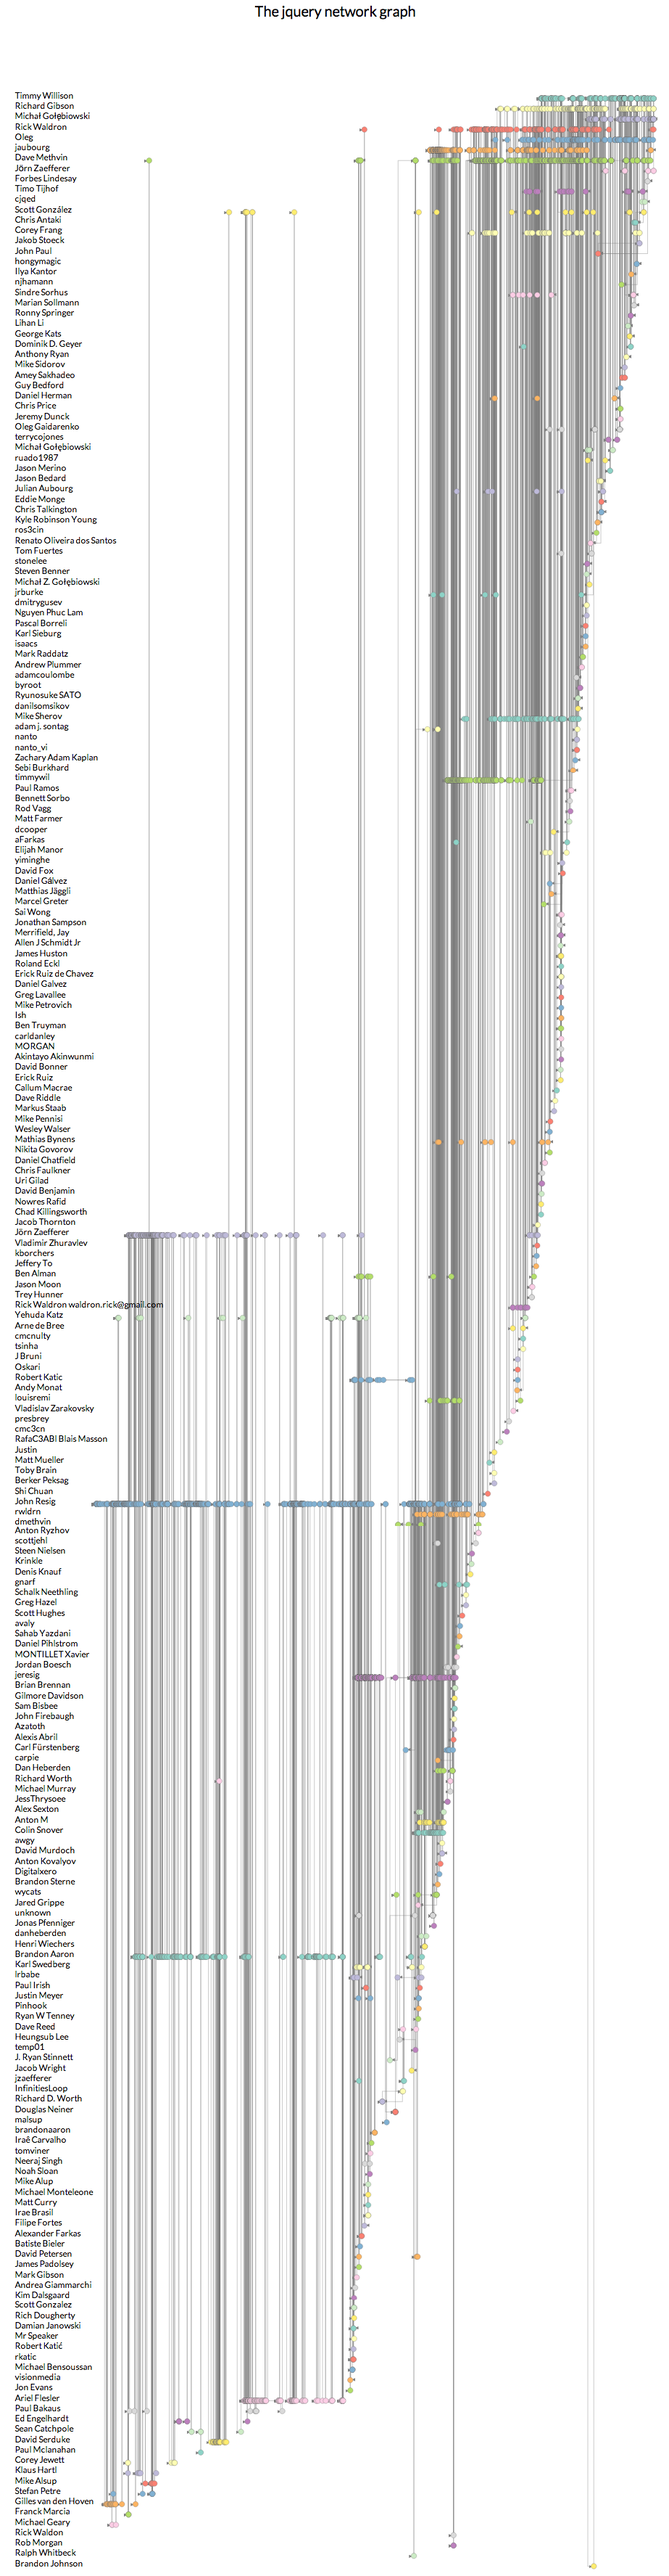
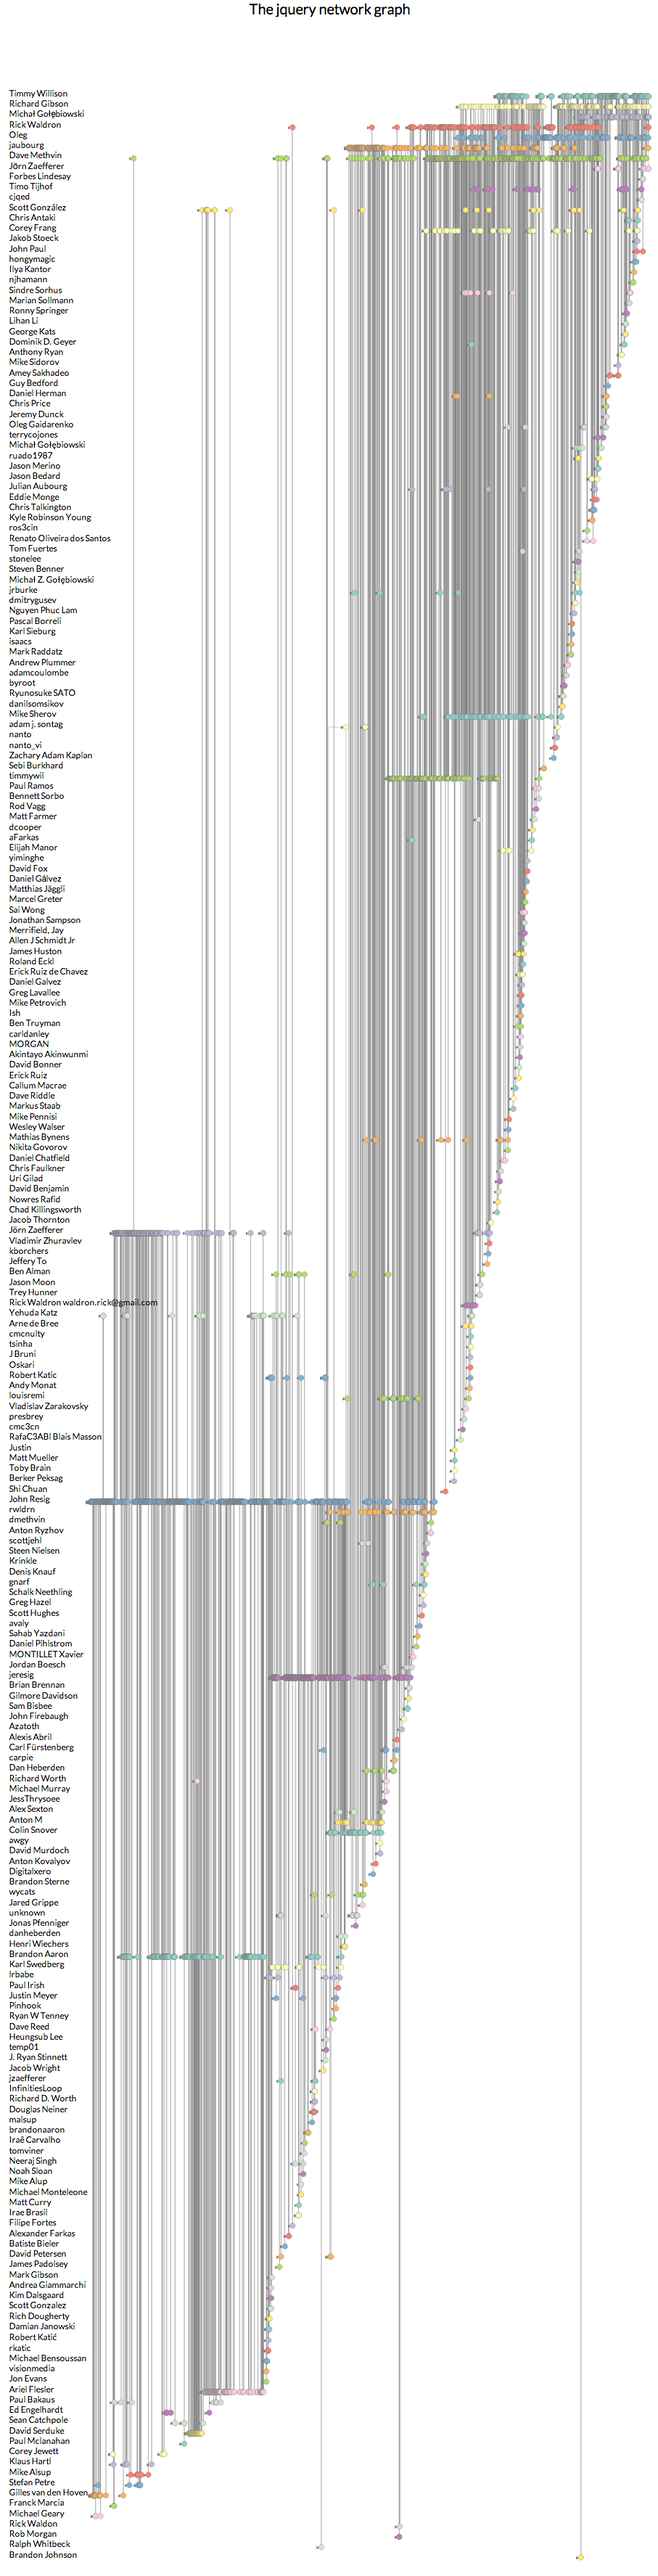
Correct backwards connections

diff --git a/js/problem_4.js b/js/problem_4.js
@@ -101,7 +101,7 @@ for (name in contributors) {
       }
       metadata = {
         author: commit.commit.author.name,
-        date: new Date(commit.commit.author.date),
+        date: new Date(commit.commit.committer.date),
         message: commit.commit.message,
         branch: branchName,
         sha: commit.sha,

diff --git a/js/simple_graph_answer.js b/js/simple_graph_answer.js
@@ -101,7 +101,7 @@ for (name in contributors) {
       }
       metadata = {
         author: commit.commit.author.name,
-        date: new Date(commit.commit.author.date),
+        date: new Date(commit.commit.committer.date),
         message: commit.commit.message,
         branch: branchName,
         sha: commit.sha,

diff --git a/simple_graph_answer.html b/simple_graph_answer.html
@@ -47,7 +47,7 @@
     otherwise write; if you know JavaScript, you know CoffeeScript. Thank you    
     for understanding.
     -->
-    <script src="js/simple_graph.js"></script>
+    <script src="js/simple_graph_answer.js"></script>
 
 </body>
 </html>
